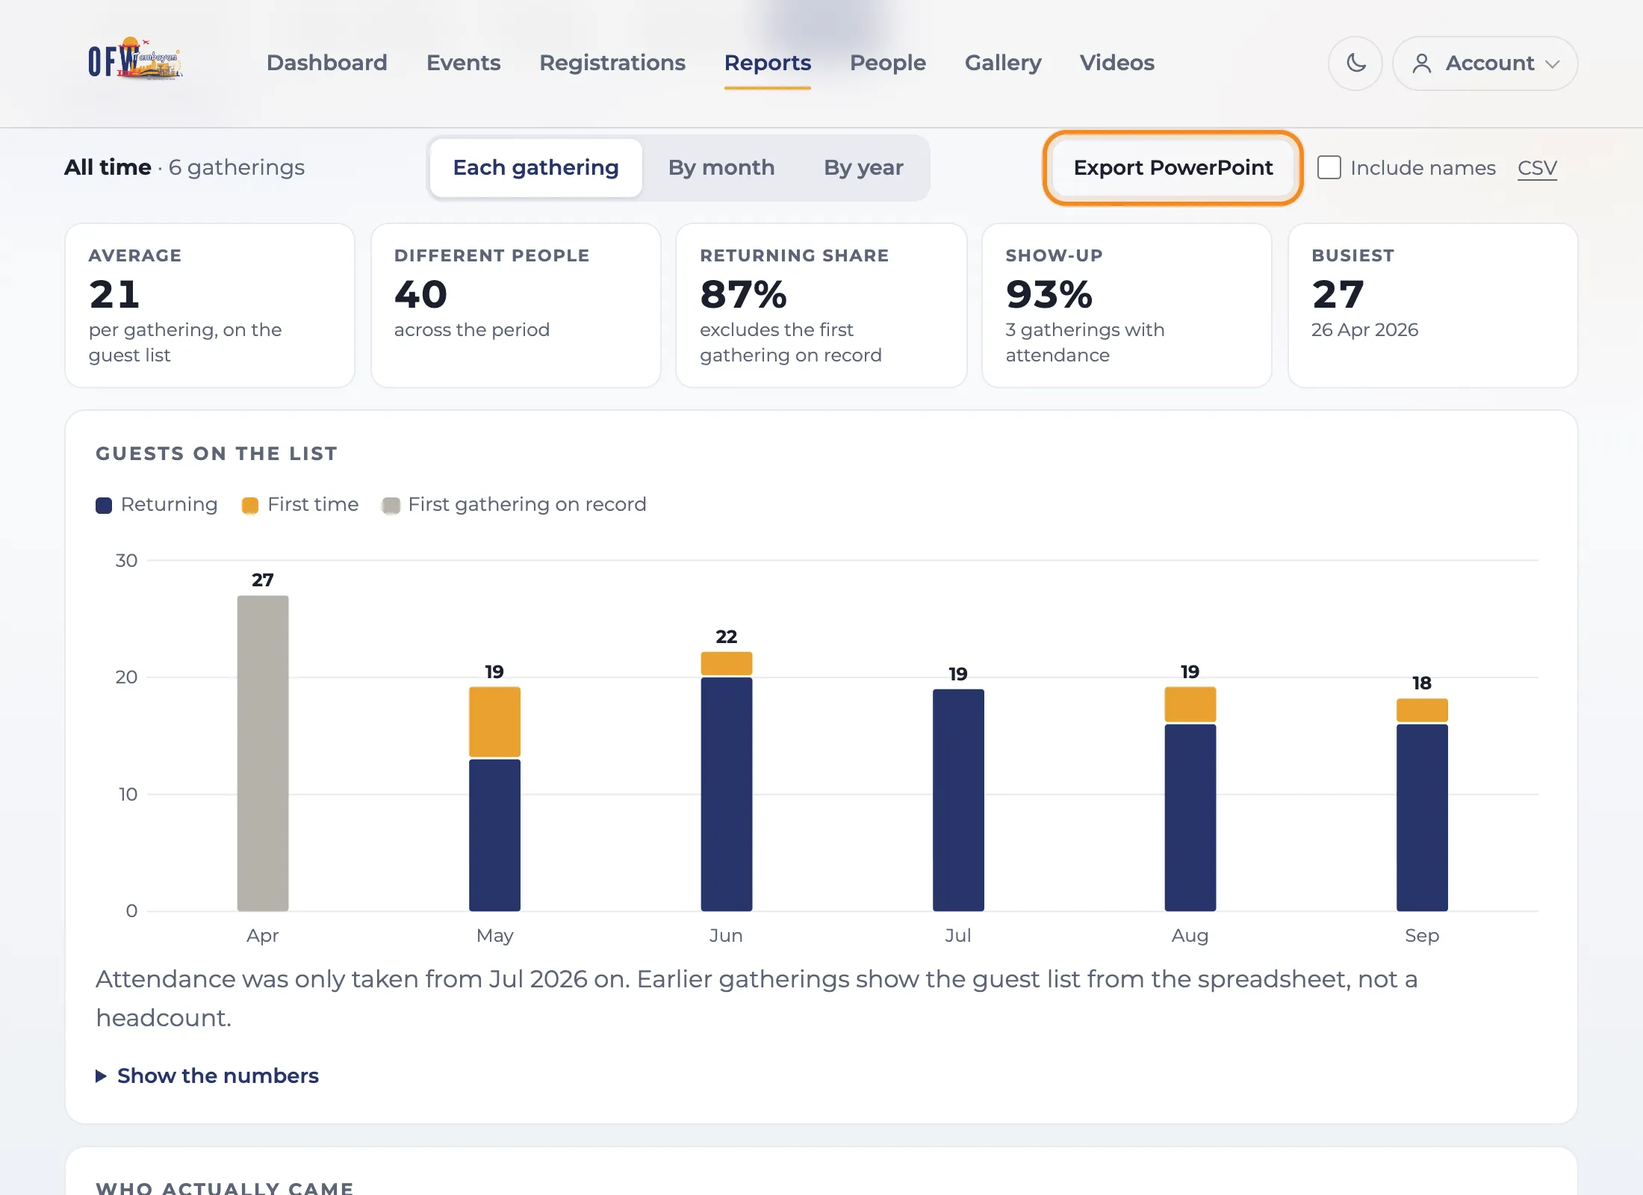
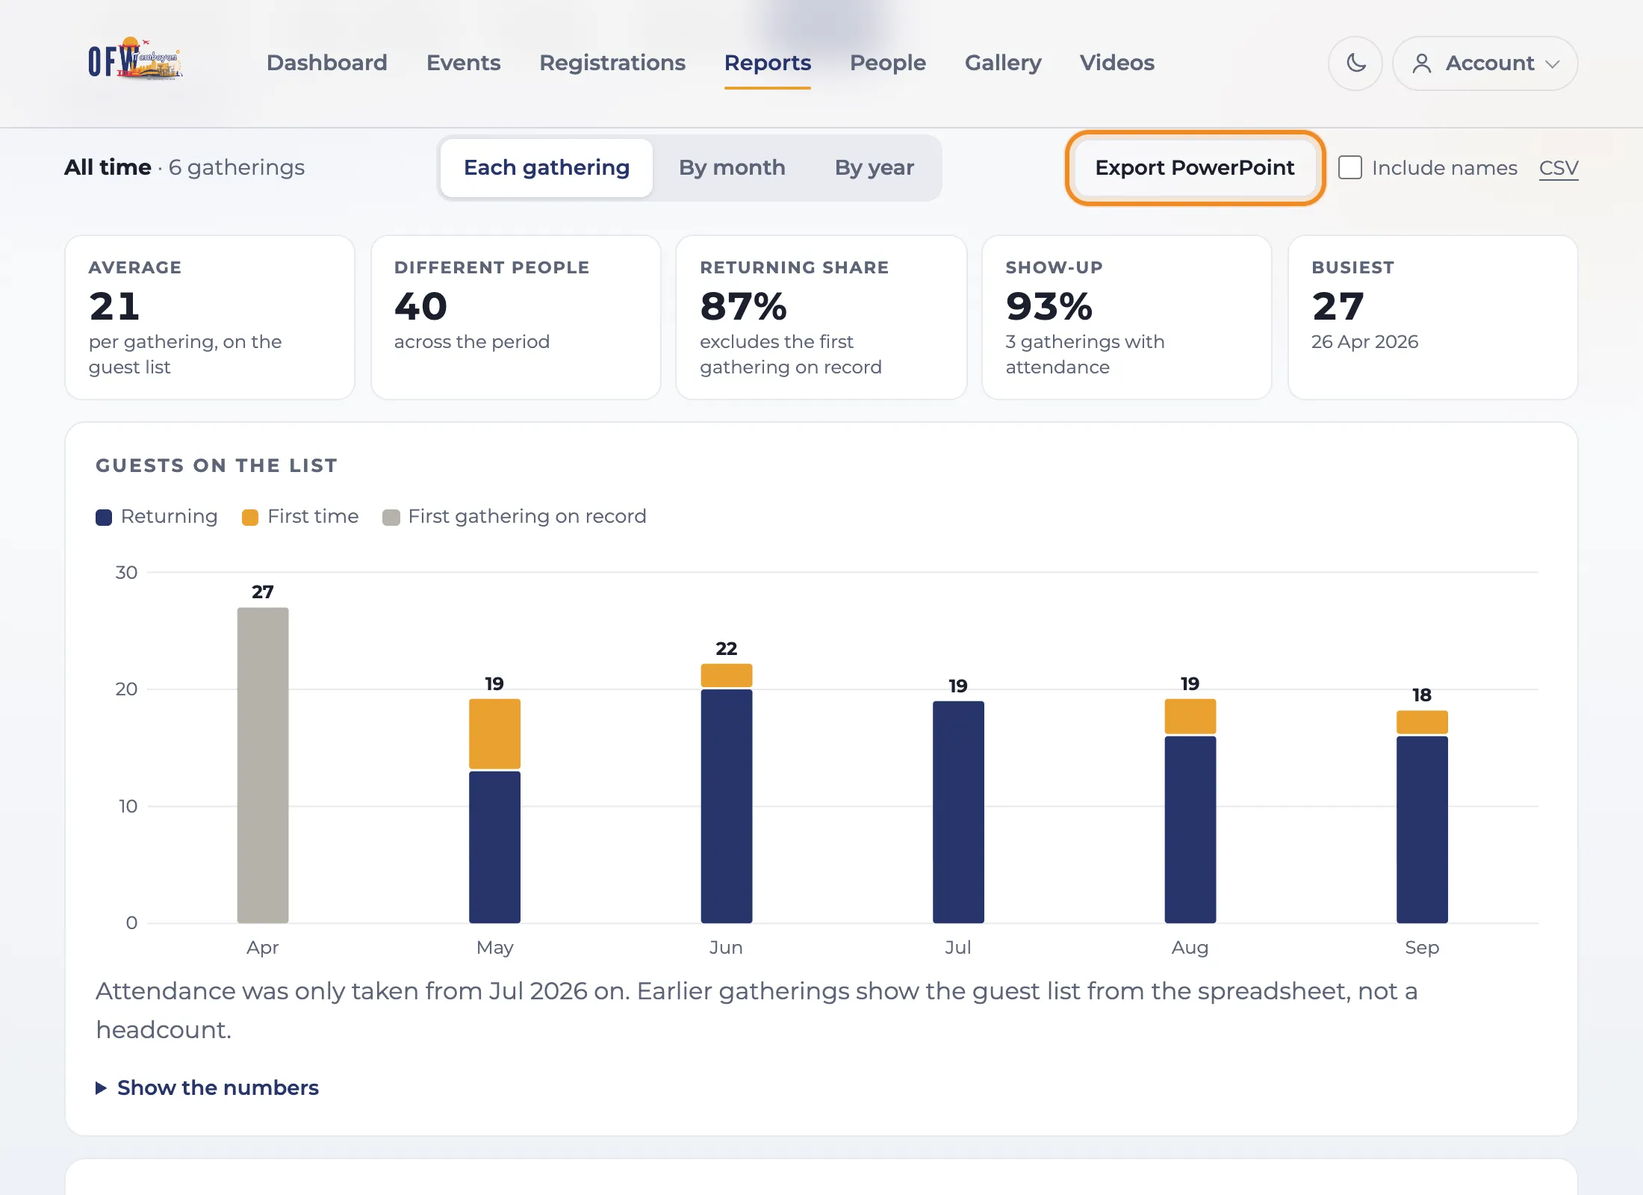
Fix blank deck charts in Keynote, steady the export controls, badge guest counts
- The deck's two charts are now drawn from plain shapes. Keynote did not import
  the native charts and showed blank slides; shapes look the same in every app,
  and the speaker notes spell out the numbers.
- The numbers table explains Came and Show-up.
- The export status message floats under the buttons, so it no longer pushes
  the controls onto a new line. It clears itself, and Include names says where
  names appear.
- Events list: the guest count is a subtle badge, with a dashed one for events
  with no guests.
- Help refreshed: guest badge, deck notes and where names appear, deleting an
  empty draft in the undo and what-guests-see answers, and new screenshots.

diff --git a/public/admin/report-deck.js b/public/admin/report-deck.js
@@ -52,6 +52,87 @@
     const kicker = (slide, text, x, y, w) =>
       slide.addText(text.toUpperCase(), { x, y, w, h: 0.3, fontFace: BODY, fontSize: 10.5, bold: true, color: C.muted, charSpacing: 2, margin: 0, valign: "middle" });
 
+
+    // Charts are drawn from plain shapes and text, not chart objects. Every app shows those the same way,
+    // and Keynote does not always import a chart's data.
+    const niceTop = (max) => {
+      const target = Math.max(4, max) / 4;
+      const magnitude = Math.pow(10, Math.floor(Math.log10(target)));
+      const step = Math.ceil([1, 2, 2.5, 5, 10].map((m) => m * magnitude).find((v) => v >= target) || target);
+      return { step, top: step * Math.ceil(Math.max(1, max) / step) };
+    };
+    const rect = (slide, x, y, w, h, color) => {
+      if (h <= 0.005) return;
+      slide.addShape(shape.rect, { x, y, w, h, fill: { color }, line: { color, width: 0 } });
+    };
+    const label = (slide, text, x, y, w, h, o) =>
+      slide.addText(String(text), Object.assign({ x, y, w, h, fontFace: BODY, fontSize: 10.5, color: C.muted, align: "center", valign: "middle", margin: 0, wrap: false }, o || {}));
+    /** Gridlines, the scale on the left and the legend underneath. Returns the plot area. */
+    const frameChart = (slide, x, y, w, h, max, legend) => {
+      const { top, step } = niceTop(max);
+      const plot = { x: x + 0.55, y: y + 0.3, w: w - 0.65, h: h - 0.3 - 0.5 - 0.4, top };
+      for (let v = 0; v <= top + 0.001; v += step) {
+        const yy = plot.y + plot.h - (v / top) * plot.h;
+        slide.addShape(shape.line, { x: plot.x, y: yy, w: plot.w, h: 0, line: { color: v === 0 ? "C9CFDD" : C.line, width: v === 0 ? 1 : 0.75 } });
+        label(slide, Math.round(v), x, yy - 0.12, 0.45, 0.24, { align: "right" });
+      }
+      const widths = legend.map((l) => 0.3 + l.name.length * 0.085 + 0.3);
+      let lx = plot.x + plot.w / 2 - widths.reduce((a, b) => a + b, 0) / 2;
+      legend.forEach((l, i) => {
+        rect(slide, lx, y + h - 0.27, 0.15, 0.15, l.color);
+        label(slide, l.name, lx + 0.22, y + h - 0.35, widths[i] - 0.22, 0.32, { align: "left", fontSize: 11 });
+        lx += widths[i];
+      });
+      return plot;
+    };
+    const axisLabels = (slide, plot, names, band) => {
+      const every = Math.ceil(names.length / Math.max(2, Math.floor(plot.w / 0.66)));
+      names.forEach((name, i) => {
+        if (i % every) return;
+        label(slide, name, plot.x + band * i + band / 2 - 0.4, plot.y + plot.h + 0.08, 0.8, 0.3, { fontSize: names.length > 20 ? 9.5 : 10.5 });
+      });
+    };
+    const stackedChart = (slide, x, y, w, h, buckets) => {
+      const parts = [
+        { name: "Returning", color: C.navy, get: (b) => b.returning },
+        { name: "First time", color: C.orange, get: (b) => Math.max(0, b.firstTime - Math.min(b.baselineGuests, b.firstTime)) },
+      ];
+      if (buckets.some((b) => b.baselineGuests > 0)) parts.push({ name: "First gathering on record", color: C.grey, get: (b) => Math.min(b.baselineGuests, b.firstTime) });
+      const plot = frameChart(slide, x, y, w, h, Math.max(0, ...buckets.map((b) => b.guests)), parts);
+      const band = plot.w / Math.max(1, buckets.length);
+      const bw = Math.min(0.72, band * 0.62);
+      buckets.forEach((b, i) => {
+        const bx = plot.x + band * i + (band - bw) / 2;
+        let top = plot.y + plot.h;
+        parts.forEach((part) => {
+          const value = part.get(b);
+          const height = (value / plot.top) * plot.h;
+          top -= height;
+          rect(slide, bx, top, bw, height, part.color);
+          if (buckets.length <= 12 && height >= 0.3) label(slide, value, bx, top, bw, height, { color: C.white, fontSize: 10.5 });
+        });
+        if (band >= 0.32) label(slide, b.guests, bx - 0.15, top - 0.28, bw + 0.3, 0.26, { color: C.ink, bold: true });
+      });
+      axisLabels(slide, plot, buckets.map((b) => b.label), band);
+    };
+    const pairChart = (slide, x, y, w, h, pairs) => {
+      const plot = frameChart(slide, x, y, w, h, Math.max(0, ...pairs.map((p) => p.listed)), [
+        { name: "On the list", color: C.soft },
+        { name: "Came", color: C.navy },
+      ]);
+      const band = plot.w / Math.max(1, pairs.length);
+      const bw = Math.min(0.5, band * 0.34);
+      pairs.forEach((p, i) => {
+        const cx = plot.x + band * i + band / 2;
+        [[p.listed, C.soft, cx - bw - 0.02], [p.attended, C.navy, cx + 0.02]].forEach(([value, color, bx], k) => {
+          const height = (value / plot.top) * plot.h;
+          rect(slide, bx, plot.y + plot.h - height, bw, height, color);
+          if (pairs.length <= 8 || (k === 1 && band >= 0.5)) label(slide, value, bx - 0.1, plot.y + plot.h - height - 0.27, bw + 0.2, 0.25, { color: C.ink, bold: k === 1 });
+        });
+      });
+      axisLabels(slide, plot, pairs.map((p) => p.label), band);
+    };
+
     const s = data.summary;
     const grainNoun = data.grain === "month" ? "month" : data.grain === "year" ? "year" : "gathering";
 
@@ -108,32 +189,16 @@
           ? "Returning and first-time guests at each gathering"
           : `Returning and first-time guests by ${grainNoun}, totalled across each ${grainNoun}'s gatherings`;
       heading(slide, "Guests on the list", sub);
-      const labels = data.buckets.map((b) => b.label);
-      const series = [
-        { name: "Returning", labels, values: data.buckets.map((b) => b.returning) },
-        { name: "First time", labels, values: data.buckets.map((b) => Math.max(0, b.firstTime - Math.min(b.baselineGuests, b.firstTime))) },
-      ];
-      const colors = [C.navy, C.orange];
-      if (data.buckets.some((b) => b.baselineGuests > 0)) {
-        series.push({ name: "First gathering on record", labels, values: data.buckets.map((b) => Math.min(b.baselineGuests, b.firstTime)) });
-        colors.push(C.grey);
-      }
-      const few = data.buckets.length <= 8;
-      slide.addChart(pptx.charts.BAR, series, {
-        x: M, y: 1.95, w: CONTENT_W, h: 4.3, barDir: "col", barGrouping: "stacked", barGapWidthPct: 55,
-        chartColors: colors, showLegend: true, legendPos: "b", legendFontFace: BODY, legendFontSize: 11, legendColor: C.muted,
-        catAxisLabelFontFace: BODY, catAxisLabelFontSize: 10.5, catAxisLabelColor: C.muted, catAxisLineShow: true,
-        valAxisLabelFontFace: BODY, valAxisLabelFontSize: 10.5, valAxisLabelColor: C.muted, valAxisLineShow: false, valAxisMinVal: 0,
-        valGridLine: { color: C.line, size: 0.75 }, catGridLine: { style: "none" },
-        showValue: few, dataLabelColor: C.white, dataLabelFontFace: BODY, dataLabelFontSize: 10.5, dataLabelFormatCode: "#,##0;;;",
-        altText: `Guests on the list for ${plural(data.buckets.length, grainNoun, grainNoun + "s")}, split into returning and first time.`,
-      });
+      stackedChart(slide, M, 1.95, CONTENT_W, 4.3, data.buckets);
       const notes = [];
       if (data.grain !== "gathering") notes.push(`Bars are totals for each ${grainNoun}. The average per gathering is in the table at the end.`);
       if (data.hasBaseline) notes.push("The first gathering on record is grey: everyone looks new only because nothing came before it.");
       if (data.anyUntracked) notes.push(`Attendance was only taken from ${data.attendanceFrom || "now"} on. Earlier gatherings show the guest list from the spreadsheet, not a headcount.`);
       if (notes.length) slide.addText(notes.join("  "), { x: M, y: 6.35, w: CONTENT_W, h: 0.5, fontFace: BODY, fontSize: 10.5, italic: true, color: C.muted, margin: 0, valign: "top" });
-      slide.addNotes("Returning = on the list at an earlier gathering. First time = the first time we have seen them.");
+      slide.addNotes(
+        "Returning = on the list at an earlier gathering. First time = the first time we have seen them.\n\nThe numbers: " +
+          data.buckets.map((b) => `${b.title}: ${b.guests} (${b.returning} returning, ${b.firstTime} first time)`).join("; ") + ".",
+      );
     }
 
     // 4. Who actually came
@@ -141,23 +206,7 @@
       const slide = pptx.addSlide({ masterName: "CONTENT" });
       heading(slide, "Who actually came", "The guest list next to the guests marked as attended");
       if (data.pairs.length) {
-        const labels = data.pairs.map((p) => p.label);
-        slide.addChart(
-          pptx.charts.BAR,
-          [
-            { name: "On the list", labels, values: data.pairs.map((p) => p.listed) },
-            { name: "Came", labels, values: data.pairs.map((p) => p.attended) },
-          ],
-          {
-            x: M, y: 1.95, w: 8.7, h: 4.45, barDir: "col", barGrouping: "clustered", barGapWidthPct: 60,
-            chartColors: [C.soft, C.navy], showLegend: true, legendPos: "b", legendFontFace: BODY, legendFontSize: 11, legendColor: C.muted,
-            catAxisLabelFontFace: BODY, catAxisLabelFontSize: 10.5, catAxisLabelColor: C.muted,
-            valAxisLabelFontFace: BODY, valAxisLabelFontSize: 10.5, valAxisLabelColor: C.muted, valAxisLineShow: false, valAxisMinVal: 0,
-            valGridLine: { color: C.line, size: 0.75 }, catGridLine: { style: "none" },
-            showValue: data.pairs.length <= 8, dataLabelColor: C.ink, dataLabelFontFace: BODY, dataLabelFontSize: 10.5, dataLabelPosition: "outEnd",
-            altText: "On the list compared with came, for each gathering where attendance was marked.",
-          },
-        );
+        pairChart(slide, M, 1.95, 8.7, 4.45, data.pairs);
         const x = M + 9.05;
         const w = CONTENT_W - 9.05;
         card(slide, x, 1.95, w, 4.45);
@@ -186,7 +235,10 @@
           { x: M + 2, y: 2.6, w: CONTENT_W - 4, h: 2.6, fontFace: BODY, fontSize: 18, color: C.ink, align: "center", valign: "middle", margin: 0 },
         );
       }
-      slide.addNotes("Came = guests marked as attended on the guest list. Show-up = came as a share of registered.");
+      slide.addNotes(
+        "Came = guests marked as attended on the guest list. Show-up = came as a share of registered." +
+          (data.pairs.length ? "\n\nThe numbers: " + data.pairs.map((p) => `${p.title}: ${p.attended} of ${p.listed} came`).join("; ") + "." : ""),
+      );
     }
 
     // 5. Regulars and people worth a check-in
@@ -260,8 +312,12 @@
           x: M, y: 1.95, w: CONTENT_W, colW, rowH: 0.42, valign: "middle", margin: [0, 0.14, 0, 0.14],
           border: { type: "solid", color: C.line, pt: 0.75 },
         });
-        if (perGathering && rows.some((r) => r[4] === "—") && page === pages - 1) {
-          slide.addText("A dash means attendance was not taken or has not been marked.", { x: M, y: 6.55, w: CONTENT_W, h: 0.3, fontFace: BODY, fontSize: 10.5, italic: true, color: C.muted, margin: 0 });
+        if (perGathering) {
+          const dash = rows.some((r) => r[4] === "—");
+          slide.addText(
+            "Came = guests marked as attended. Show-up = Came as a share of On the list." + (dash ? " A dash means attendance was not taken or has not been marked." : ""),
+            { x: M, y: 6.55, w: CONTENT_W, h: 0.3, fontFace: BODY, fontSize: 10.5, italic: true, color: C.muted, margin: 0 },
+          );
         }
       }
     }
@@ -274,10 +330,13 @@
     if (!button) return;
     const status = document.getElementById("deck-status");
     const names = document.getElementById("deck-names");
+    let clearTimer = 0;
     const say = (text, bad) => {
       if (!status) return;
       status.textContent = text;
       status.classList.toggle("is-error", Boolean(bad));
+      clearTimeout(clearTimer);
+      if (text && !bad && text === "Downloaded.") clearTimer = setTimeout(() => { status.textContent = ""; }, 5000);
     };
     const toDataUrl = (blob) =>
       new Promise((resolve) => {

diff --git a/src/help.ts b/src/help.ts
@@ -117,7 +117,7 @@ const sections: Section[] = [
         id: "event-find",
         q: "How do I find an event in a long list?",
         a: `<p>Above the list is a row of choices: <strong>All, Open, Closed, Draft</strong>. Tap one to show only those events. The title above the list follows your choice, for example <em>Closed events</em>.</p>
-        <p>The list shows five events at a time, newest first. Use <strong>Previous</strong> and <strong>Next</strong> at the bottom to see older ones. Each event also shows how many guests it has.</p>
+        <p>The list shows five events at a time, newest first. Use <strong>Previous</strong> and <strong>Next</strong> at the bottom to see older ones. Each event also shows a small badge with how many guests it has, or <em>No guests yet</em>.</p>
         <p>Tap an event to see its guest list. <strong>Edit</strong>, <strong>Open</strong>, <strong>Force close</strong> and the other buttons work as before.</p>`,
         shots: [{ name: "events-filter", alt: "The Events list filtered to Closed events, with the choices and page buttons circled", path: "/admin/events" }],
       },
@@ -410,10 +410,11 @@ const sections: Section[] = [
         a: `<ol>
           <li>Open <strong>Reports</strong> and tap <strong>Trends</strong>.</li>
           <li>Pick the period and how to group it. The deck follows what you see on screen.</li>
-          <li>Tick <strong>Include names</strong> only if you want people listed by name. It is off by default, because decks get forwarded.</li>
+          <li>Tick <strong>Include names</strong> only if you want people listed by name. It is off by default, because decks get forwarded. Names appear on one slide only, <strong>Regulars and people worth a check-in</strong>. The other slides show numbers.</li>
           <li>Tap <strong>Export PowerPoint</strong>. The file downloads in a few seconds, named after the period, for example <em>ofw-tambayan-gathering-report-2026-04-to-2026-09.pptx</em>.</li>
         </ol>
-        <p>The deck has a cover, <strong>At a glance</strong>, <strong>Guests on the list</strong>, <strong>Who actually came</strong>, <strong>Regulars and people worth a check-in</strong>, and a table of the numbers. Each slide has short speaker notes. The charts are real PowerPoint charts, so you can click one to edit its colours or numbers. It also opens in Keynote and Google Slides.</p>
+        <p>The deck has a cover, <strong>At a glance</strong>, <strong>Guests on the list</strong>, <strong>Who actually came</strong>, <strong>Regulars and people worth a check-in</strong>, and a table of the numbers. Each slide has short speaker notes that spell out the numbers.</p>
+        <p>The deck opens in PowerPoint, Keynote and other slide apps. You can change wording, colours and layout freely. The charts are drawn as shapes so they look the same everywhere, which means they are pictures of the numbers, not data charts. To change a number, export again.</p>
         <p>You need an internet connection to build it. If the button says the tool did not load, check your connection and try again.</p>`,
       },
     ],
@@ -522,6 +523,7 @@ const sections: Section[] = [
         <p>These <strong>cannot</strong> be undone:</p>
         <ul>
           <li>Merging two people.</li>
+          <li>Deleting an empty draft event.</li>
           <li>Deleting a photo or a video.</li>
           <li>Removing a guest from an event. You can add them again, but not their attended mark.</li>
         </ul>`,
@@ -585,6 +587,7 @@ const guestEffects: [string, string][] = [
   ["Open an event", "The home page shows a Register button and the Register page takes sign-ups."],
   ["Close an event, or its start time passes", "Sign-up stops. The home page shows the next event as Coming soon."],
   ["Write an announcement", "It appears at the top of the home page until the gathering starts."],
+  ["Delete an empty Draft", "If it was showing as Coming soon, the home page moves on to the next event."],
   ["Upload photos", "They appear in the public Gallery under that event, unless it is a Draft."],
   ["Add a video", "It appears on the public Shorts page, lowest sort order first."],
 ];

diff --git a/public/styles.css b/public/styles.css
@@ -2880,13 +2880,15 @@ select:focus {
   align-items: center;
   justify-content: space-between;
   gap: 0.6rem 1rem;
-  margin: 0 0 0.9rem;
+  margin: 0 0 1.4rem;
 }
-.report-export { display: flex; flex-wrap: wrap; align-items: center; gap: 0.5rem 0.9rem; }
+.report-export { position: relative; display: flex; flex-wrap: wrap; align-items: center; gap: 0.5rem 0.9rem; }
 .report-names { display: inline-flex; align-items: center; gap: 0.4rem; margin: 0; color: var(--muted); font-size: 0.82rem; cursor: pointer; }
 .report-names input { width: 1rem; height: 1rem; margin: 0; padding: 0; accent-color: var(--ofw-navy); cursor: pointer; }
 .report-csv { color: var(--muted); font-size: 0.82rem; text-underline-offset: 3px; }
-.report-export-status { min-height: 1.1em; color: var(--muted); font-size: 0.82rem; }
+/* The message floats under the buttons, so showing it never moves the controls. */
+.report-export-status { position: absolute; top: calc(100% + 0.3rem); right: 0; color: var(--muted); font-size: 0.82rem; white-space: nowrap; }
+.report-export-status:empty { display: none; }
 .report-export-status.is-error { color: var(--danger); }
 .report-range-label { margin: 0; color: var(--muted); font-size: 0.9rem; }
 .report-range-label strong { color: var(--ink); }
@@ -2942,6 +2944,7 @@ select:focus {
   .report-chart-narrow { display: block; }
   .rc-axis, .rc-val { font-size: 13px; }
   .report-toolbar { align-items: stretch; }
+  .report-export-status { left: 0; right: auto; }
   .report-seg { width: 100%; }
   .report-seg-item { flex: 1; text-align: center; padding-inline: 0.4rem; }
   .report-custom label { flex: 1 1 8rem; }
@@ -4603,6 +4606,22 @@ html[data-admin-theme="dark"] body.page-admin .site-footer a { color: inherit; }
 .ev-filter .segmented input { position: absolute; inset: 0; width: 100%; height: 100%; margin: 0; padding: 0; opacity: 0; cursor: pointer; }
 .admin-event-list li[hidden] { display: none; }
 .admin-event-list li[data-event] { cursor: pointer; }
+.admin-event-guests {
+  display: inline-flex;
+  align-items: center;
+  gap: 0.35rem;
+  justify-self: start;
+  margin-top: 0.35rem;
+  padding: 0.12rem 0.65rem 0.12rem 0.5rem;
+  border-radius: 999px;
+  background: rgba(39, 52, 107, 0.07);
+  color: var(--ofw-navy);
+  font-size: 0.78rem;
+  font-weight: 600;
+  line-height: 1.5;
+}
+.admin-event-guests svg { width: 13px; height: 13px; flex: none; opacity: 0.75; }
+.admin-event-guests.is-none { background: transparent; box-shadow: inset 0 0 0 1px var(--line); color: var(--muted); font-weight: 500; }
 .admin-event-link { color: inherit; text-decoration: none; }
 .admin-event-link:hover strong,
 .admin-event-list li[data-event]:hover .admin-event-link strong { text-decoration: underline; text-decoration-color: rgba(39, 52, 107, 0.35); text-underline-offset: 3px; }
@@ -4754,3 +4773,5 @@ html[data-admin-theme="dark"] body.page-admin .site-footer a { color: inherit; }
 
 html[data-admin-theme="dark"] body.page-admin .hp-jump a:hover { background: rgba(244, 241, 234, 0.08); }
 html[data-admin-theme="dark"] body.page-admin .hp-frame { border-color: rgba(244, 241, 234, 0.14); box-shadow: 0 12px 32px rgba(0, 0, 0, 0.4); }
+html[data-admin-theme="dark"] body.page-admin .admin-event-guests { background: rgba(244, 241, 234, 0.09); color: #d6e2ff; }
+html[data-admin-theme="dark"] body.page-admin .admin-event-guests.is-none { background: transparent; color: #b4bdd2; }

diff --git a/src/admin.ts b/src/admin.ts
@@ -1045,7 +1045,7 @@ async function handleAdminEvents(request: Request, env: Env): Promise<Response> 
                 <a class="admin-event-link" href="${guestsHref}" title="See the guest list"><strong>${escapeHtml(e.title)}</strong></a>
                 ${statusBadge(e)}
               </div>
-              <p class="admin-event-meta"><span>${escapeHtml(formatEventWhen(e.held_at))}</span><span>${escapeHtml(e.address)}</span><span>${e.guests} ${e.guests === 1 ? "guest" : "guests"}</span></p>
+              <p class="admin-event-meta"><span>${escapeHtml(formatEventWhen(e.held_at))}</span><span>${escapeHtml(e.address)}</span><span class="admin-event-guests${e.guests ? "" : " is-none"}">${menuIcon("registrations")}${e.guests === 0 ? "No guests yet" : `${e.guests} ${e.guests === 1 ? "guest" : "guests"}`}</span></p>
             </div>
             <div class="admin-row-actions">
               <a class="btn btn-ghost btn-sm" data-edit="${escapeHtml(e.id)}" href="/admin/events?id=${escapeHtml(e.id)}#event-form">${e.id === editing?.id ? "Editing" : "Edit"}</a>

diff --git a/src/reports.ts b/src/reports.ts
@@ -512,7 +512,7 @@ export function renderTrends(view: TrendsView): string {
       <div class="report-seg" role="group" aria-label="Group by">${grains}</div>
       <div class="report-export">
         <button type="button" class="btn btn-ghost btn-sm" id="deck-export" data-query="${escapeHtml(deckParams.toString())}">Export PowerPoint</button>
-        <label class="report-names"><input type="checkbox" id="deck-names" /><span>Include names</span></label>
+        <label class="report-names" title="Adds guest names to the Regulars and Worth a check-in slide"><input type="checkbox" id="deck-names" /><span>Include names</span></label>
         <a class="report-csv" href="/admin/reports.csv?${csvParams.toString()}">CSV</a>
         <span id="deck-status" class="report-export-status" role="status" aria-live="polite"></span>
       </div>
